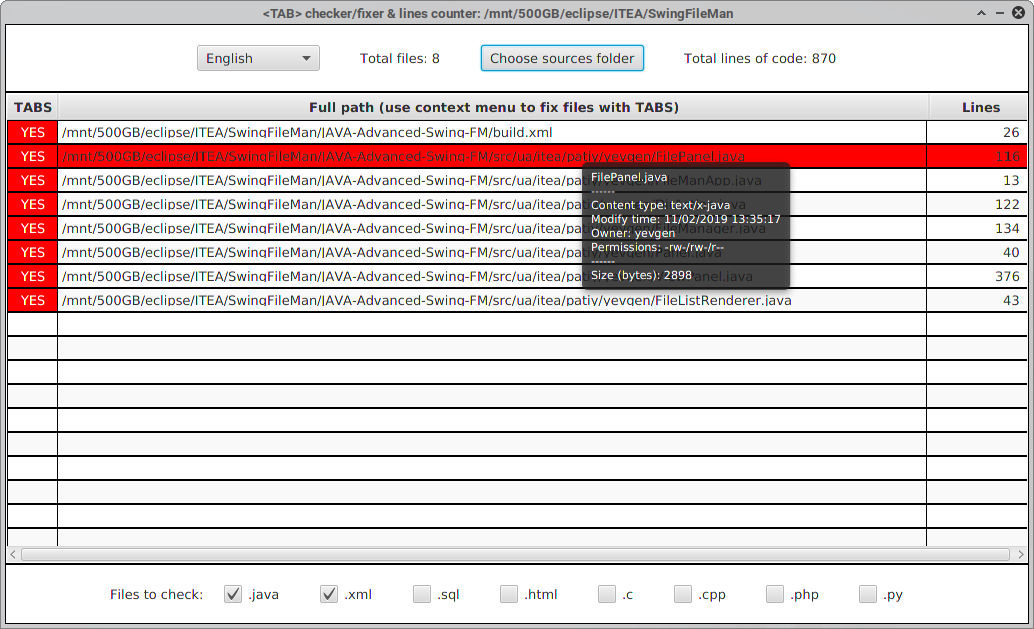
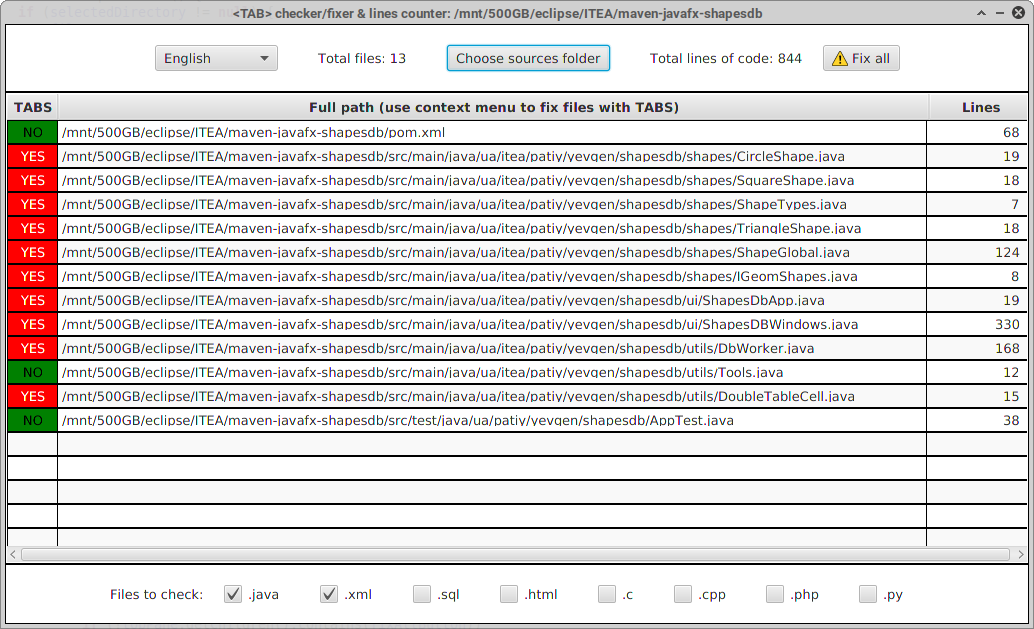
complete multi-threading actions

diff --git a/src/main/java/ua/patiy/yevgen/codechecker/CodeChecker.java b/src/main/java/ua/patiy/yevgen/codechecker/CodeChecker.java
@@ -23,6 +23,7 @@ import java.util.List;
 import java.util.Locale;
 import java.util.ResourceBundle;
 import java.util.concurrent.CompletableFuture;
+import java.util.concurrent.ExecutionException;
 import java.util.concurrent.ExecutorService;
 import java.util.concurrent.Executors;
 import java.util.regex.Matcher;
@@ -276,23 +277,29 @@ public class CodeChecker implements FileVisitor<Path> {
             if (hasTabsInList) {
                 fixAllButton.setGraphic(new ImageView(new Image(getClass().getResourceAsStream("/img/warning.png"))));
                 fixAllButton.setOnAction(event -> {
-                    // long start = System.nanoTime();
-                    // multi-thread operations
+                    // multi-thread operations for speed
                     ExecutorService threadPool = Executors
                             .newFixedThreadPool(Runtime.getRuntime().availableProcessors() + 1);
+                    List<CompletableFuture<Void>> futures = new ArrayList<CompletableFuture<Void>>();
 
                     fileList.stream().filter(file -> file.isTab()).forEach(file -> {
-                        CompletableFuture.runAsync(() -> {
+                        futures.add(CompletableFuture.runAsync(() -> {
                             try {
                                 fw.fixTabs(Paths.get(file.getFileName()));
                             } catch (IOException e) {
                                 e.printStackTrace();
                                 System.out.printf("%s%n", "Fix failed on " + file.getFileName());
                             }
-                        }, threadPool);
+                        }, threadPool));
                     });
 
-                    // System.out.println((System.nanoTime() - start));
+                    futures.stream().forEach(future -> {
+                        try {
+                            future.get();
+                        } catch (InterruptedException | ExecutionException e) {
+                            handleException(e);
+                        }
+                    });
                     updateView();
                 });
                 if (!topPane.getChildren().contains(fixAllButton))
